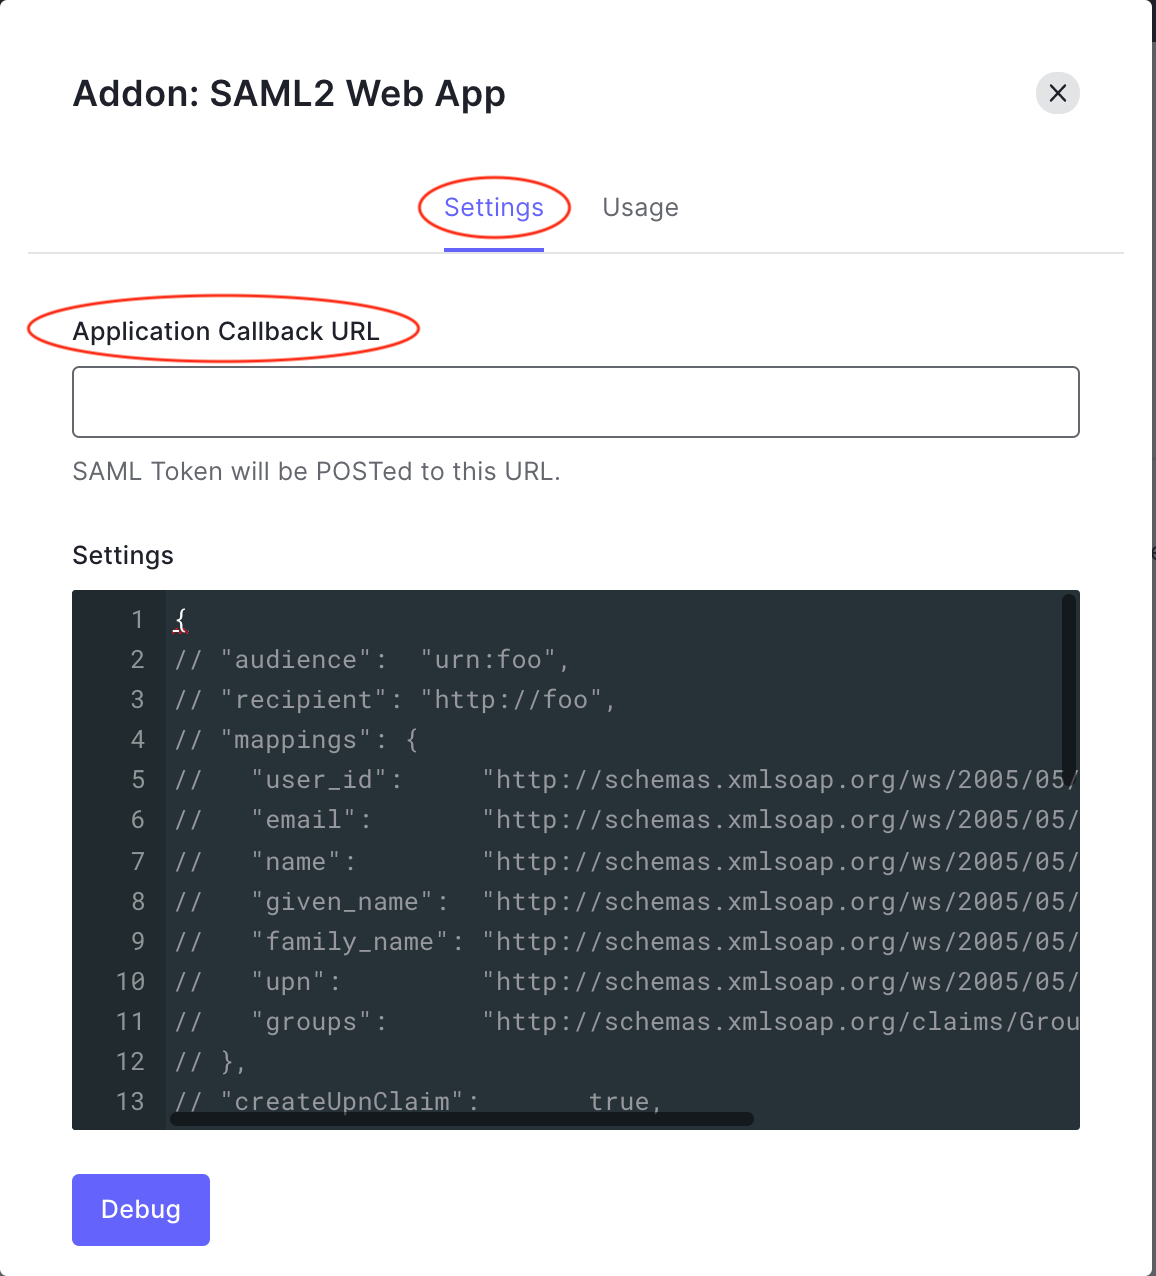
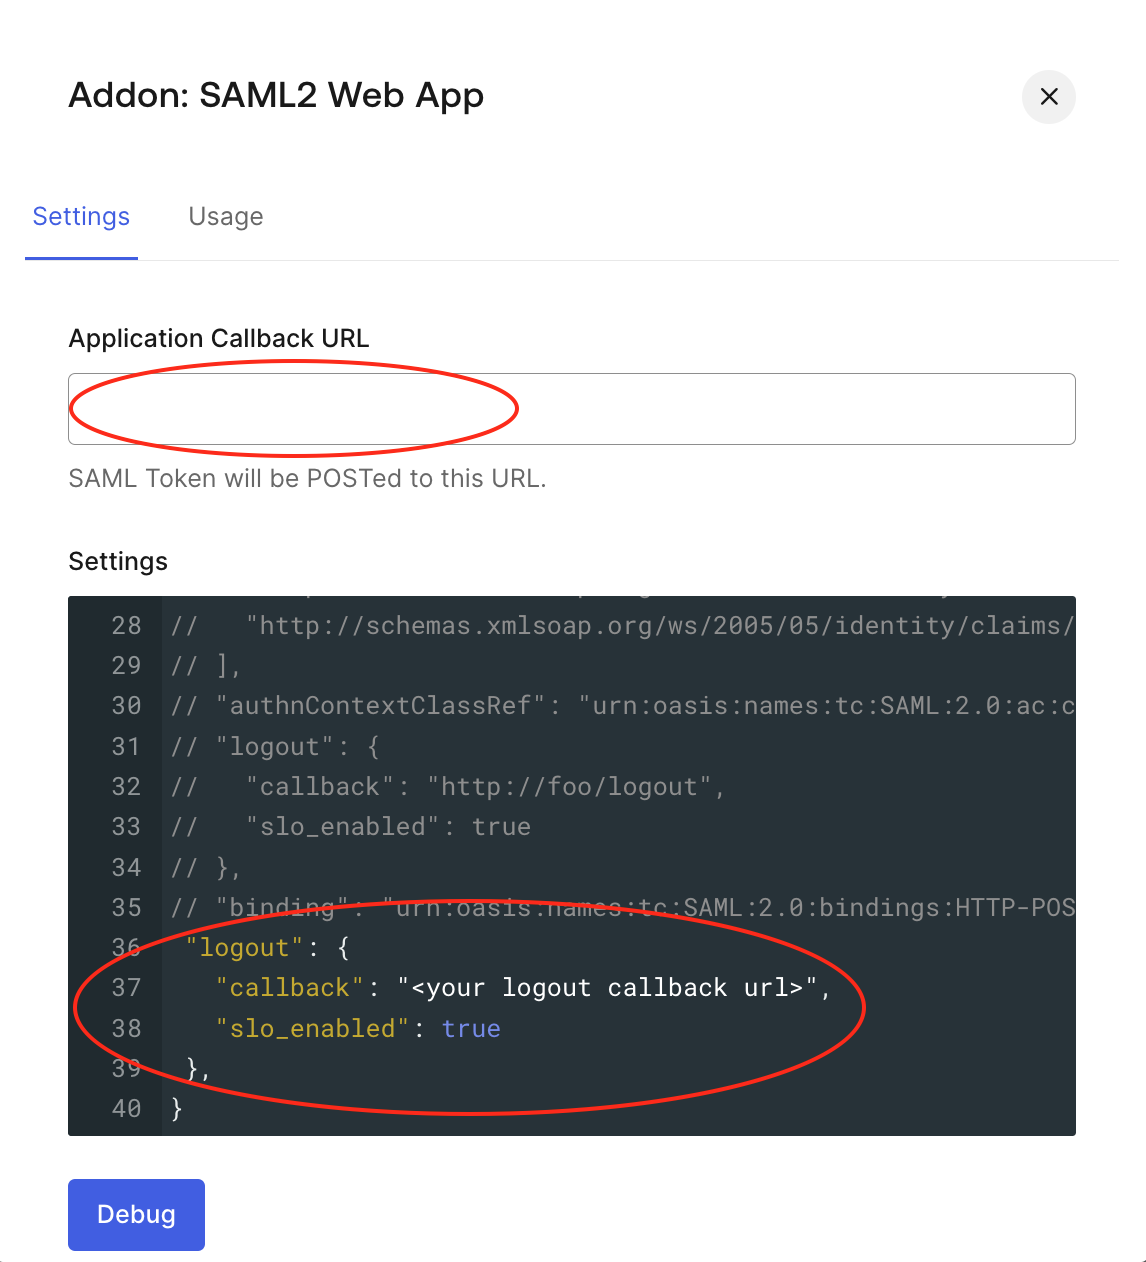
add additional step for the callback json

diff --git a/src/app/components/IdentityProviderWizard/Wizards/Providers/Auth0/SAML/index.tsx b/src/app/components/IdentityProviderWizard/Wizards/Providers/Auth0/SAML/index.tsx
@@ -13,7 +13,10 @@ import authoLogo from "@app/images/auth0/auth0-logo.png";
 import { WizardConfirmation, Header } from "@wizardComponents";
 import { useKeycloakAdminApi } from "@app/hooks/useKeycloakAdminApi";
 import IdentityProviderRepresentation from "@keycloak/keycloak-admin-client/lib/defs/identityProviderRepresentation";
-import { CreateIdp, SamlAttributeMapper } from "@app/components/IdentityProviderWizard/Wizards/services";
+import {
+  CreateIdp,
+  SamlAttributeMapper,
+} from "@app/components/IdentityProviderWizard/Wizards/services";
 import { useNavigateToBasePath } from "@app/routes";
 import { getAlias } from "@wizardServices";
 import { Protocols, Providers, SamlIDPDefaults } from "@app/configurations";
@@ -114,16 +117,32 @@ export const Auth0WizardSAML: FC = () => {
     };
 
     try {
-      await CreateIdp({createIdPUrl, payload, featureFlags});
-      
+      await CreateIdp({ createIdPUrl, payload, featureFlags });
+
       await SamlAttributeMapper({
         alias,
         createIdPUrl,
-        usernameAttribute: { attributeName: "http://schemas.xmlsoap.org/ws/2005/05/identity/claims/username", friendlyName: "" },
-        emailAttribute: { attributeName: "http://schemas.xmlsoap.org/ws/2005/05/identity/claims/emailaddress", friendlyName: "" },
-        firstNameAttribute: { attributeName: "http://schemas.xmlsoap.org/ws/2005/05/identity/claims/givenname", friendlyName: "" },
-        lastNameAttribute: { attributeName: "http://schemas.xmlsoap.org/ws/2005/05/identity/claims/surname", friendlyName: "" },
-	featureFlags,
+        usernameAttribute: {
+          attributeName:
+            "http://schemas.xmlsoap.org/ws/2005/05/identity/claims/username",
+          friendlyName: "",
+        },
+        emailAttribute: {
+          attributeName:
+            "http://schemas.xmlsoap.org/ws/2005/05/identity/claims/emailaddress",
+          friendlyName: "",
+        },
+        firstNameAttribute: {
+          attributeName:
+            "http://schemas.xmlsoap.org/ws/2005/05/identity/claims/givenname",
+          friendlyName: "",
+        },
+        lastNameAttribute: {
+          attributeName:
+            "http://schemas.xmlsoap.org/ws/2005/05/identity/claims/surname",
+          friendlyName: "",
+        },
+        featureFlags,
       });
 
       setResults(`${idpCommonName} created successfully. Click finish.`);

diff --git a/src/app/components/IdentityProviderWizard/Wizards/Providers/Auth0/SAML/Steps/4.tsx b/src/app/components/IdentityProviderWizard/Wizards/Providers/Auth0/SAML/Steps/4.tsx
@@ -14,7 +14,6 @@ type Props = {
 
 export const Auth0StepFour: React.FC<Props> = ({ loginRedirectURL }) => {
   const instructions: InstructionProps[] = [
-    
     {
       component: (
         <ClipboardCopyComponent
@@ -24,12 +23,36 @@ export const Auth0StepFour: React.FC<Props> = ({ loginRedirectURL }) => {
       ),
     },
     {
-      text: "In the “Settings” section of the popup, enter the Application Callback URL.",
+      component: (
+        <div>
+          In the “Settings” tab of the popup, enter the Application Callback URL
+          in the provided input field.
+        </div>
+      ),
+    },
+    {
+      component: (
+        <ClipboardCopyComponent
+          label="Copy this Callback JSON"
+          initialValue={`"logout": { "callback": "${loginRedirectURL}", "slo_enabled": true },`}
+        />
+      ),
+    },
+    {
+      component: (
+        <div>
+          In the "Settings" tab of the popup, paste the Callback JSON into the
+          "Settings" JSON field at the bottom, just below the final curly brace
+          "{"}"}".
+        </div>
+      ),
+    },
+    {
       component: <StepImage src={Auth0Step5Image} alt="Step 4.1" />,
     },
     {
       text: "Scroll all the way to the bottom of this popup and click “Enable”.",
-      component: <StepImage src={Auth0Step6Image} alt="Step 4.2" />,
+      component: <StepImage src={Auth0Step6Image} alt="Step 4.3" />,
     },
   ];
 
